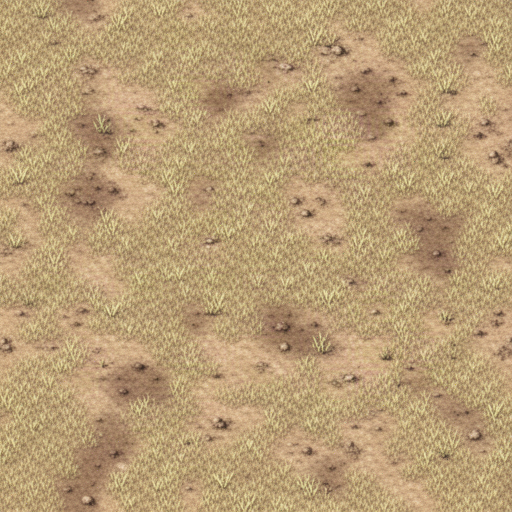
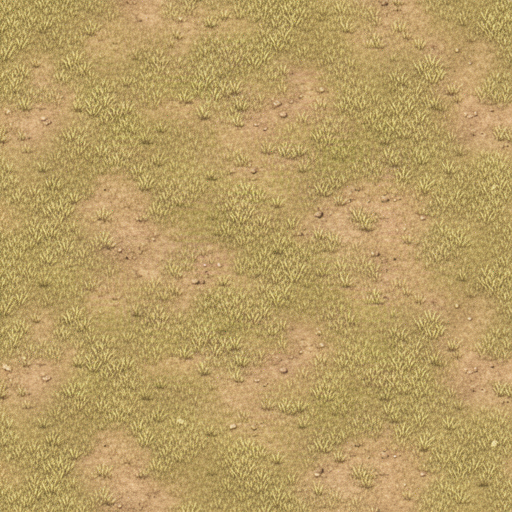
Revert "improved tiles"
This reverts commit 16d0b7272d81cdca5f3e28ca543b443b149c224c.

diff --git a/src/game/rendering/TerrainTextureManager.ts b/src/game/rendering/TerrainTextureManager.ts
@@ -3,13 +3,14 @@
  *
  * Two-layer rendering system inspired by Battle for Wesnoth:
  *
- *  Layer 1 — base ground tiles (seamless, flat top-down, 256×256)
- *    HILLS and RIVER reuse existing grass/ocean textures.
- *    Transitions are color-gradient based — no blob patterns.
+ *  Layer 1 — base ground tiles (seamless, flat top-down, 256x256)
+ *    Drawn first for every tile. Transitions use smooth color gradients
+ *    (no texture bleeding = no blob patterns at corners).
  *
- *  Layer 2 — feature sprites (isometric, transparent bg, 256×384 = 1.5:1)
- *    Drawn in painter's-algorithm row order. Each sprite is offset upward
- *    by 0.5 tile so the feature slightly extends into the row above.
+ *  Layer 2 — feature sprites (isometric, transparent bg, 256x512)
+ *    Drawn in painter's-algorithm row order so lower-row features
+ *    appear in front. Each sprite is offset upward by one tile height
+ *    so mountain peaks / tree tops extend into the row above.
  */
 
 export const TERRAIN_TEXTURE_FILES: Record<string, string> = {
@@ -18,13 +19,13 @@ export const TERRAIN_TEXTURE_FILES: Record<string, string> = {
   GRASSLAND: '/assets/tiles/terrain_grassland.png',
   FOREST:    '/assets/tiles/terrain_forest.png',
   JUNGLE:    '/assets/tiles/terrain_jungle.png',
-  HILLS:     '/assets/tiles/terrain_grassland.png',  // hills use grass base
+  HILLS:     '/assets/tiles/terrain_hills.png',
   MOUNTAINS: '/assets/tiles/terrain_mountains.png',
   DESERT:    '/assets/tiles/terrain_desert.png',
   SWAMP:     '/assets/tiles/terrain_swamp.png',
   TUNDRA:    '/assets/tiles/terrain_tundra.png',
   ARCTIC:    '/assets/tiles/terrain_arctic.png',
-  RIVER:     '/assets/tiles/terrain_ocean.png',      // river uses ocean base
+  RIVER:     '/assets/tiles/terrain_river.png',
 };
 
 export const FEATURE_TEXTURE_FILES: Partial<Record<string, string>> = {
@@ -150,8 +151,8 @@ export class TerrainTextureManager {
     neighborType: string,
     tileX: number, tileY: number, tileSize: number,
     direction: 'N' | 'E' | 'S' | 'W',
-    blendFraction = 0.40,
-    maxAlpha       = 0.65,
+    blendFraction = 0.32,
+    maxAlpha       = 0.60,
   ): void {
     const colorBase = TERRAIN_BLEND_COLOR[neighborType.toUpperCase()];
     if (!colorBase) return;
@@ -183,29 +184,10 @@ export class TerrainTextureManager {
     ctx.restore();
   }
 
-  /** Radial gradient at a tile corner for diagonal neighbour blending. */
-  drawCornerBlend(
-    ctx: CanvasRenderingContext2D,
-    neighborType: string,
-    cornerX: number,
-    cornerY: number,
-    radius: number,
-    maxAlpha = 0.32,
-  ): void {
-    const colorBase = TERRAIN_BLEND_COLOR[neighborType.toUpperCase()];
-    if (!colorBase) return;
-    const g = ctx.createRadialGradient(cornerX, cornerY, 0, cornerX, cornerY, radius);
-    g.addColorStop(0,    `${colorBase}${maxAlpha})`);
-    g.addColorStop(0.6,  `${colorBase}${(maxAlpha * 0.3).toFixed(2)})`);
-    g.addColorStop(1,    'rgba(0,0,0,0)');
-    ctx.fillStyle = g;
-    ctx.fillRect(cornerX - radius, cornerY - radius, radius * 2, radius * 2);
-  }
-
   // ── Feature sprite (painter's algorithm, upward offset) ─────────────────
   //
-  // Sprites are 1.5:1 (width : 1.5*width = 256×384).
-  // Feature sits in the lower part; top 0.5 tile extends above the tile edge.
+  // Sprite is 1:2 (width : 2*width). Bottom aligns with tile bottom;
+  // top extends one full tileSize above — creating depth like Wesnoth trees.
 
   drawFeature(
     ctx: CanvasRenderingContext2D,
@@ -214,7 +196,6 @@ export class TerrainTextureManager {
   ): void {
     const img = this.getFeatureTexture(terrainType);
     if (!img) return;
-    // Offset up by 0.5 tiles; total height = 1.5 tiles
-    ctx.drawImage(img, tileX, tileY - tileSize * 0.5, tileSize, tileSize * 1.5);
+    ctx.drawImage(img, tileX, tileY - tileSize, tileSize, tileSize * 2);
   }
 }

diff --git a/src/game/rendering/MapRenderer.ts b/src/game/rendering/MapRenderer.ts
@@ -420,10 +420,7 @@ export class MapRenderer {
       }
     }
 
-    // ── Pass 2: color-based edge + corner transitions ─────────────────────
-    //
-    // Cardinal edges: wider blend band for smoother blending (was 0.25, now 0.40).
-    // Diagonal corners: small radial gradient so corners don't look sharply cut.
+    // ── Pass 2: color-based edge transitions (clean, no blob patterns) ───
     if (tm && tm.isReady) {
       for (let row = 0; row < map.height; row++) {
         for (let col = 0; col < map.width; col++) {
@@ -433,7 +430,6 @@ export class MapRenderer {
           const y = row * scaledTile;
           const tPriority = tm.getPriority(tile.type);
 
-          // Cardinal edges — wider blend = smoother transition
           const edges: Array<{ dcol: number; drow: number; dir: 'N'|'E'|'S'|'W' }> = [
             { dcol: 0, drow: -1, dir: 'N' },
             { dcol: 1, drow:  0, dir: 'E' },
@@ -445,25 +441,10 @@ export class MapRenderer {
             if (!n?.explored || n.type === tile.type) continue;
             const nPriority = tm.getPriority(n.type);
             if (nPriority <= tPriority) continue;
-            const diff  = nPriority - tPriority;
-            const alpha = Math.min(0.78, 0.50 + diff * 0.05);
-            const blend = Math.min(0.50, 0.40 + diff * 0.02);
+            const diff    = nPriority - tPriority;
+            const alpha   = Math.min(0.72, 0.42 + diff * 0.05);
+            const blend   = Math.min(0.42, 0.25 + diff * 0.025);
             tm.drawColorTransition(ctx, n.type, x, y, scaledTile, dir, blend, alpha);
-          }
-
-          // Diagonal corners — fill gaps where only the diagonal neighbour differs
-          const corners: Array<{ dcol: number; drow: number; cx: number; cy: number }> = [
-            { dcol: -1, drow: -1, cx: x,               cy: y               },
-            { dcol:  1, drow: -1, cx: x + scaledTile,  cy: y               },
-            { dcol:  1, drow:  1, cx: x + scaledTile,  cy: y + scaledTile  },
-            { dcol: -1, drow:  1, cx: x,               cy: y + scaledTile  },
-          ];
-          for (const { dcol, drow, cx, cy } of corners) {
-            const n = terrainGrid[row + drow]?.[col + dcol];
-            if (!n?.explored || n.type === tile.type) continue;
-            const nPriority = tm.getPriority(n.type);
-            if (nPriority <= tPriority) continue;
-            tm.drawCornerBlend(ctx, n.type, cx, cy, scaledTile * 0.52, 0.32);
           }
         }
       }
